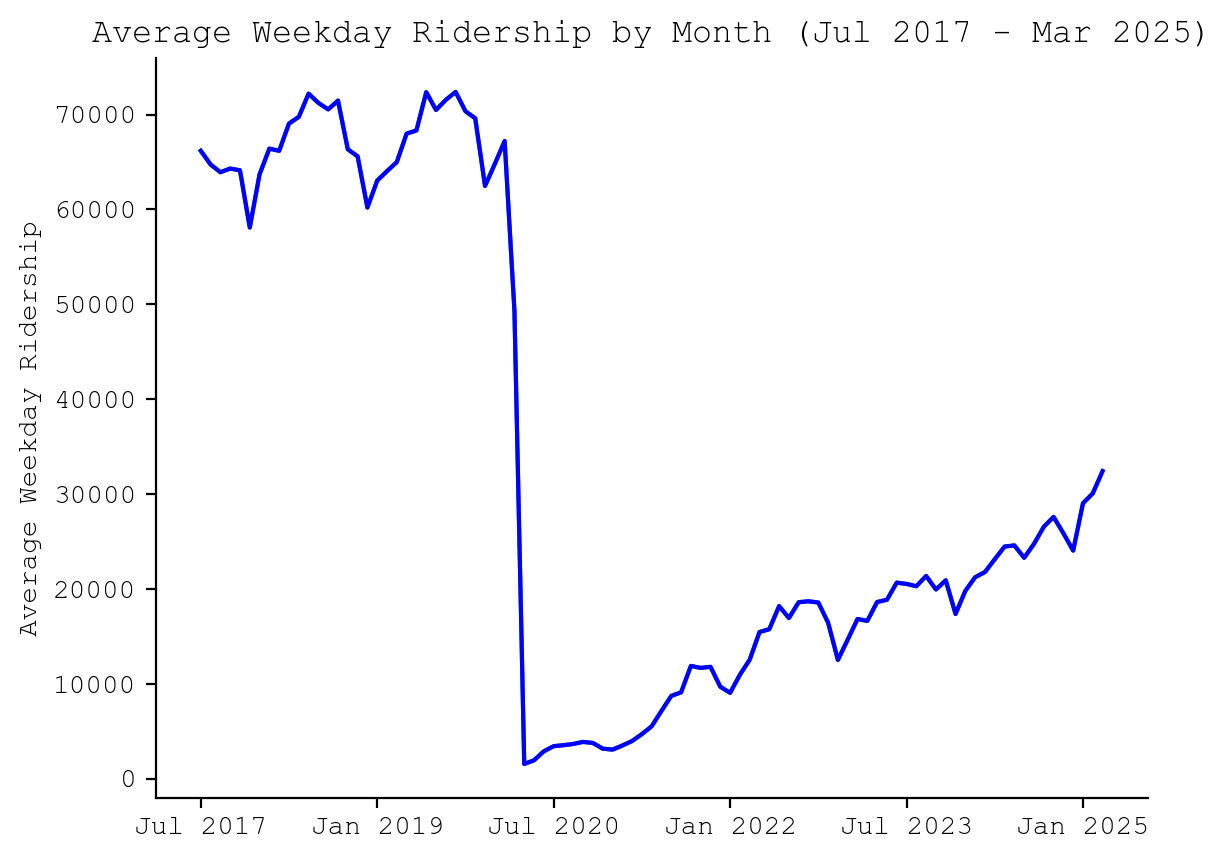
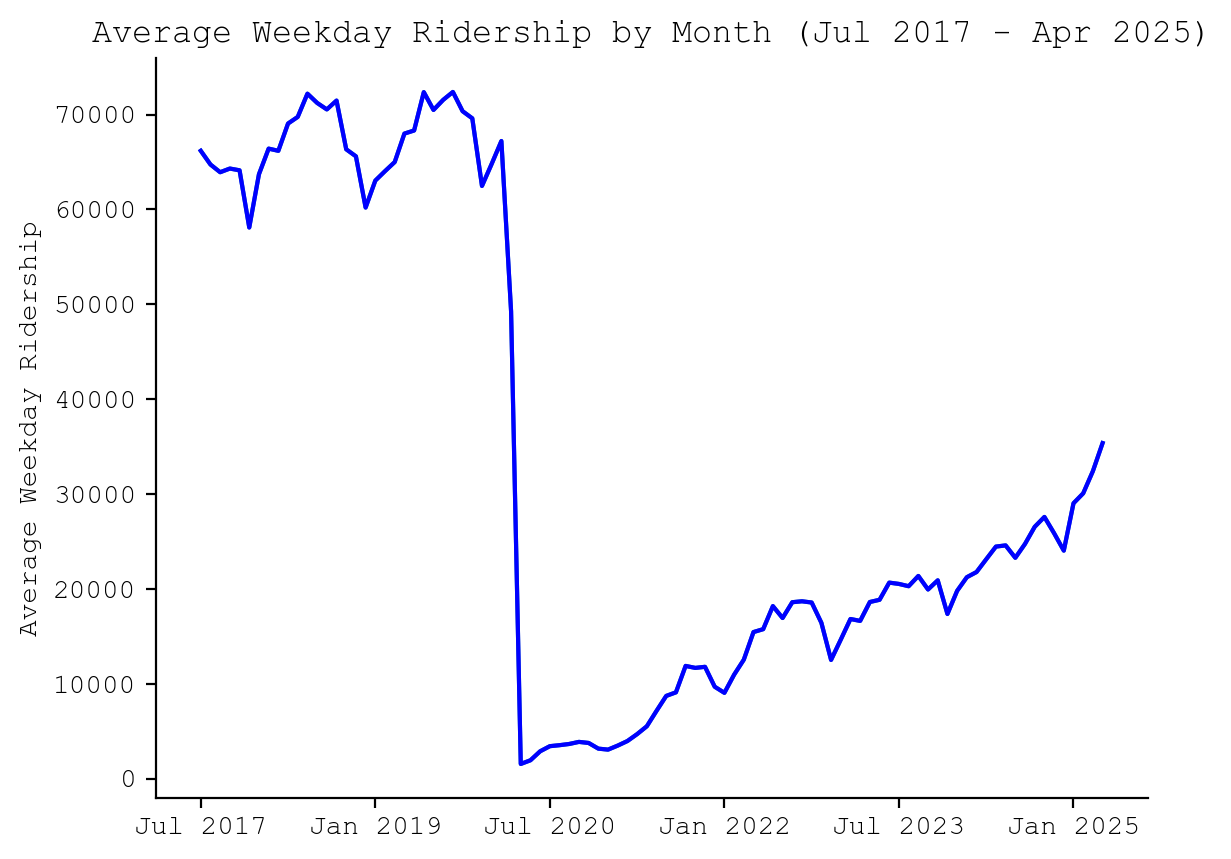
Add Apr 2025

diff --git a/site/index.html b/site/index.html
@@ -9,15 +9,15 @@
 </head>
 <body>
     <h1>Caltrain Ridership</h1>
-    <p><em>Last updated: 2025-04-09</em></p>    
+    <p><em>Last updated: 2025-05-12</em></p>    
     <div class="news">
         <p>
             If you're on desktop, Caltrain's new ridership web page has detailed and mostly up-to-date ridership data: <a href="https://www.caltrain.com/about-caltrain/statistics-reports/ridership/fare-media-based">https://www.caltrain.com/about-caltrain/statistics-reports/ridership/fare-media-based</a>. Unfortunately that page does not work on mobile.
         </p>
     </div>
     <p>
-        This site contains graphs and a table of Caltrain's average weekday ridership from Jul 2017 to Mar 2025 sourced from <a href="https://www.caltrain.com/about-caltrain/statistics-reports/ridership/fare-media-based">Fare Media Sales-Based Ridership Estimates</a> and JPB Citizens Advisory Committee documents.
-        Average weekday ridership is reported with a 1-month lag, so the most recent data is from Mar 2025.
+        This site contains graphs and a table of Caltrain's average weekday ridership from Jul 2017 to Apr 2025 sourced from <a href="https://www.caltrain.com/about-caltrain/statistics-reports/ridership/fare-media-based">Fare Media Sales-Based Ridership Estimates</a> and JPB Citizens Advisory Committee documents.
+        Average weekday ridership is reported with a 1-month lag, so the most recent data is from Apr 2025.
     </p>
     <p>
         You can find a <a href="https://github.com/iechevarria/caltrain-ridership/blob/main/ridership.csv">CSV</a> of Caltrain's average weekday ridership and the script to generate this site on <a href="https://github.com/iechevarria/caltrain-ridership">GitHub</a>.
@@ -31,6 +31,10 @@
     <tr>
         <td>Month</td>
         <td>Average weekday ridership</td>
+    </tr>
+    <tr>
+        <td>Apr 2025</td>
+        <td>35374</td>
     </tr>
     <tr>
         <td>Mar 2025</td>
